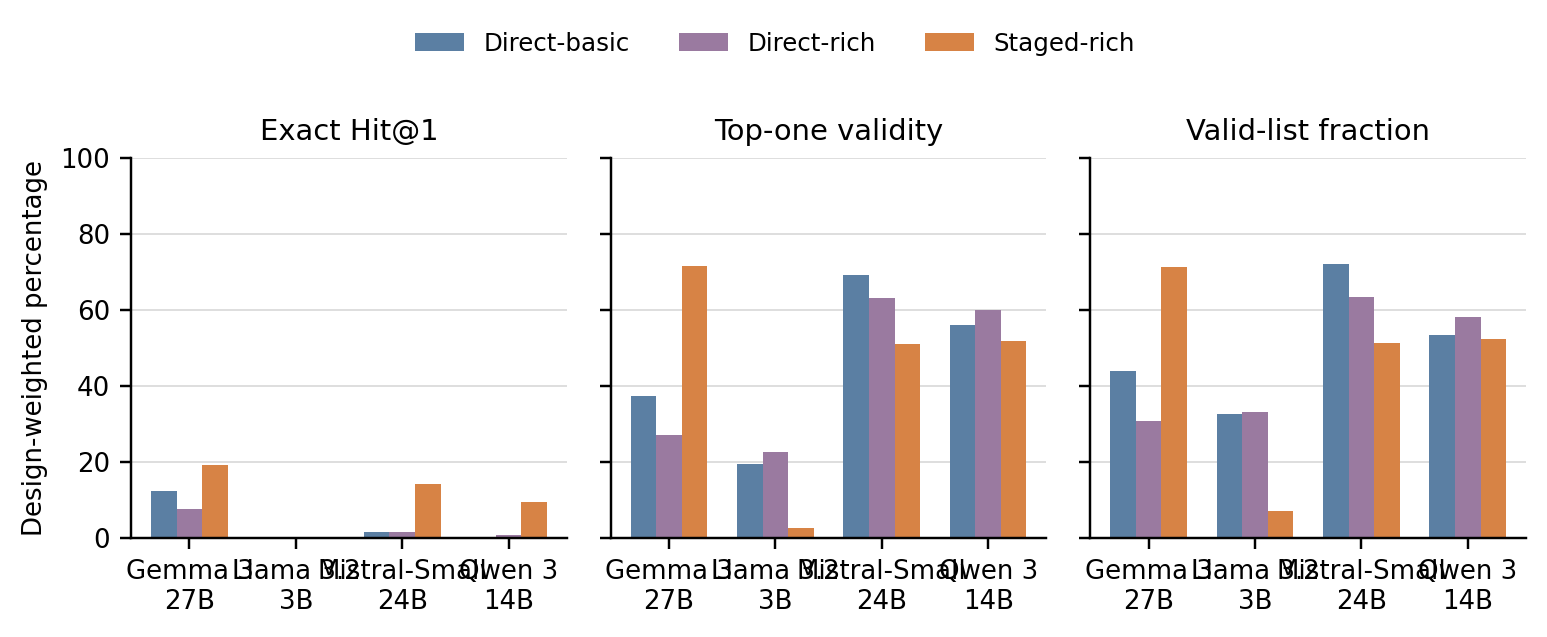
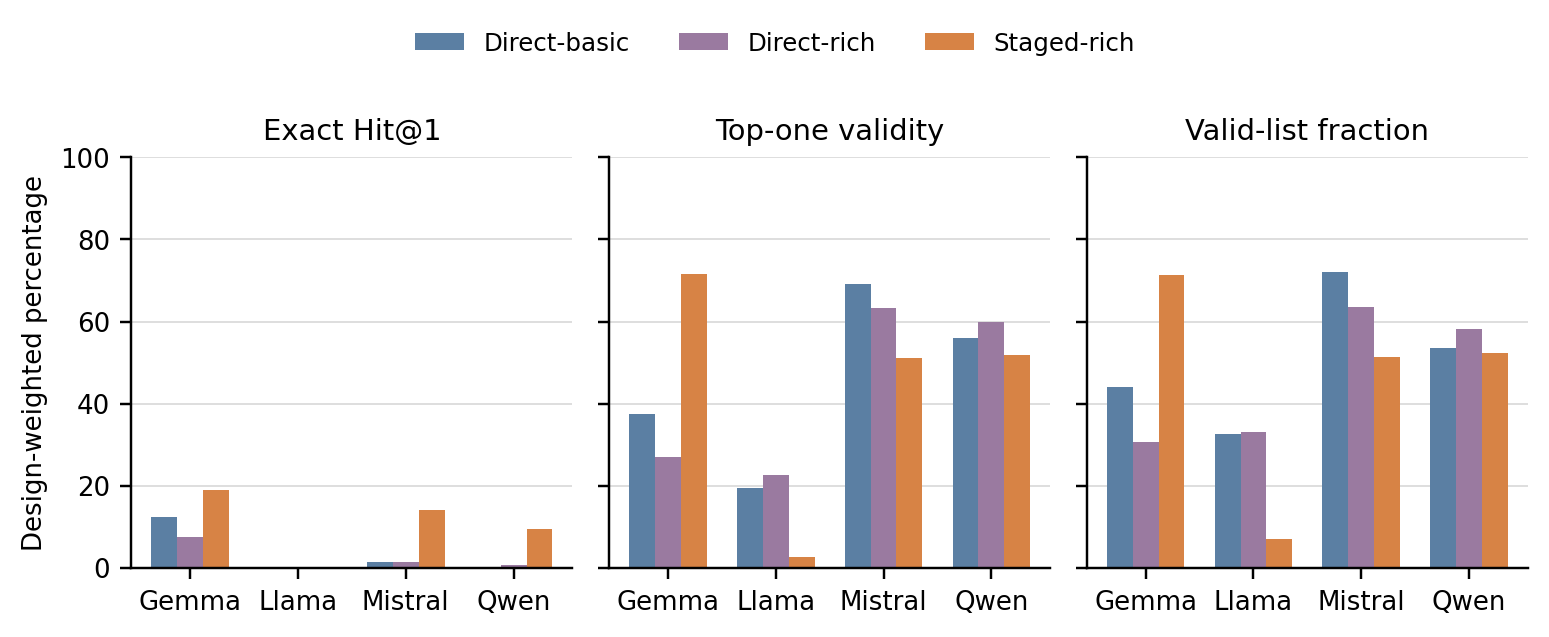
Improve locked-generation figure labels

diff --git a/experiment/reviewer_revision_round3_20260815/plot_locked_generation.py b/experiment/reviewer_revision_round3_20260815/plot_locked_generation.py
@@ -12,10 +12,10 @@ import numpy as np
 
 
 MODEL_LABELS = {
-    "gemma3:27b": "Gemma 3\n27B",
-    "llama3.2:3b": "Llama 3.2\n3B",
-    "mistral-small:24b": "Mistral-Small\n24B",
-    "qwen3:14b": "Qwen 3\n14B",
+    "gemma3:27b": "Gemma",
+    "llama3.2:3b": "Llama",
+    "mistral-small:24b": "Mistral",
+    "qwen3:14b": "Qwen",
 }
 PROMPTS = ["direct", "direct_rich", "staged"]
 PROMPT_LABELS = ["Direct-basic", "Direct-rich", "Staged-rich"]

diff --git a/experiment/zenodo_release.py b/experiment/zenodo_release.py
@@ -207,7 +207,7 @@ def main() -> None:
     parser.add_argument("--publish", action="store_true")
     parser.add_argument("--state-file", type=Path)
     parser.add_argument("--new-version-of", type=int)
-    parser.add_argument("--version", default="1.2.0")
+    parser.add_argument("--version", default="1.2.1")
     args = parser.parse_args()
 
     token = env_value(args.env_file, "ZENODO_ACCESS_TOKEN")
